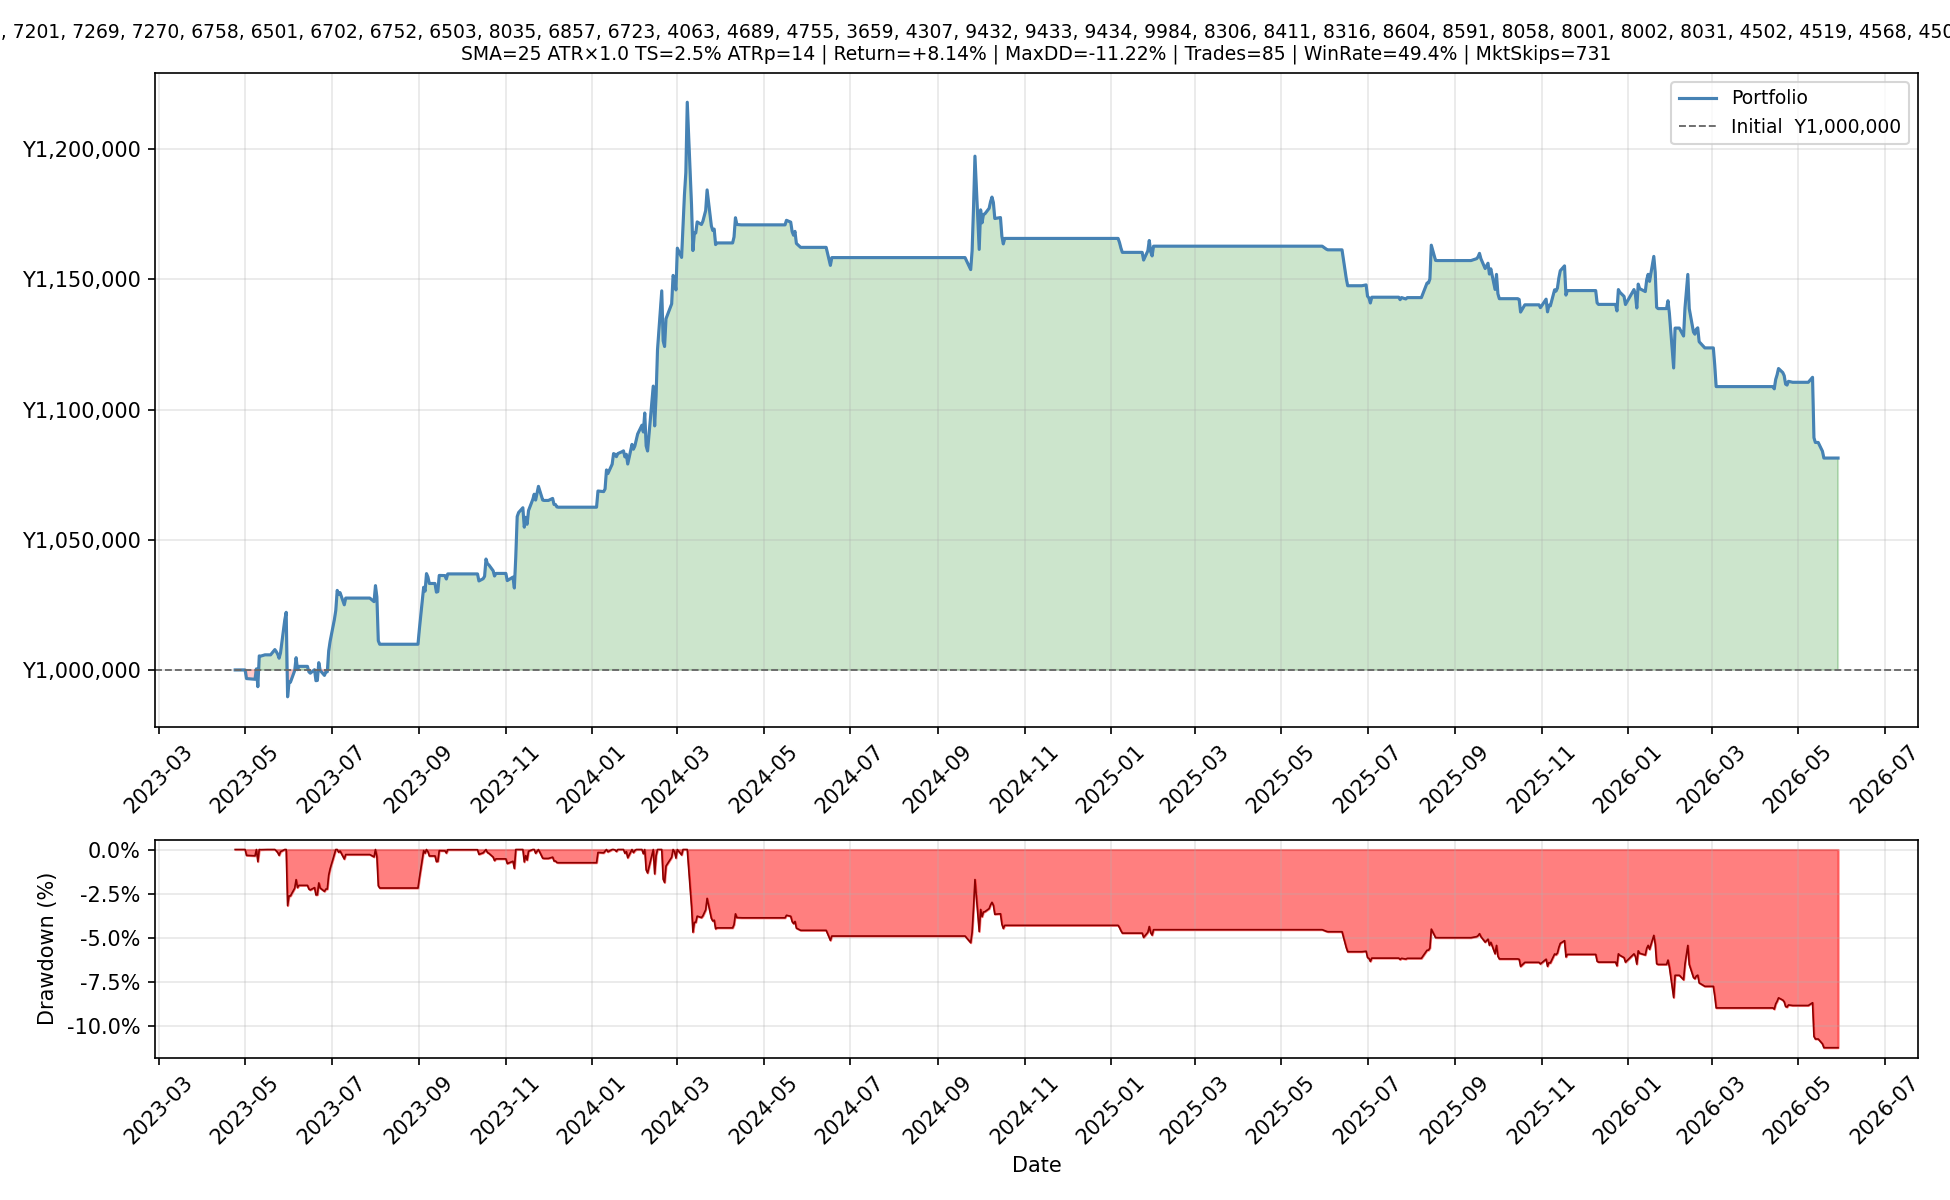
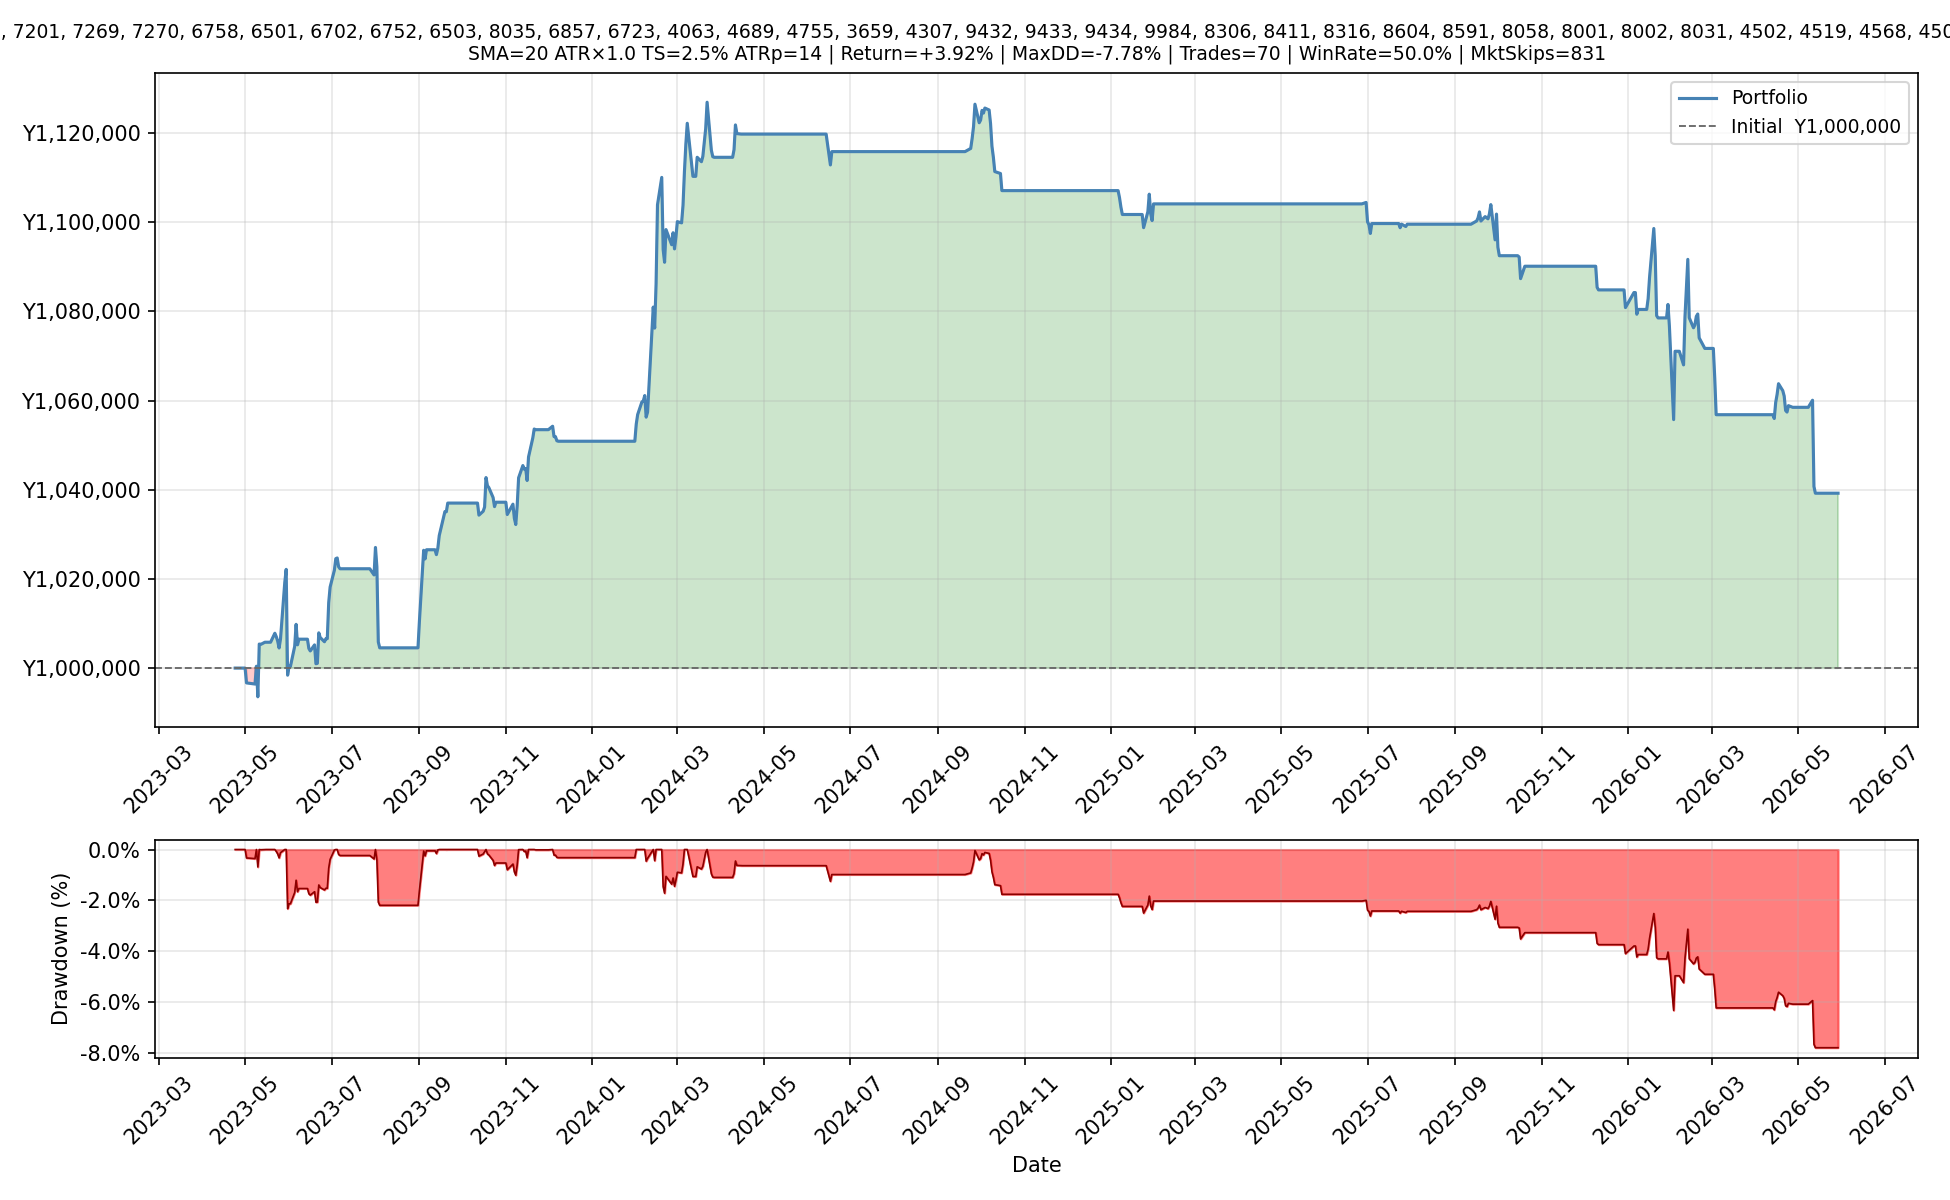
feat: 利益最大化4フィルターを追加（RS・部分利確・タイムストップ・決算スキップ）
- 相対強度フィルター(RS_LOOKBACK=42): N225対比アンダーパフォーム銘柄をエントリー除外
- 部分利確(PARTIAL_PROFIT_R=2.0): ATR×2達成で50%を確定、残りをトレーリングで利益追求
- タイムストップ(TIME_STOP_DAYS=20): 20営業日保有で含み益1%未満なら機会損失を解消
- 決算スキップ: yfinance calendarで決算±3~5日のエントリーを回避
- バックテスト: partial_profit 14件/勝率100%、全体 +3.92% PF=1.23

diff --git a/j_titan_engine.py b/j_titan_engine.py
@@ -49,6 +49,12 @@ RSI_OVERBOUGHT         = 70.0   # この水準から反転下落したら early_
 EARLY_EXIT_PROFIT_CAP  = 0.03   # 含み益がこれ未満の初期フェーズのみ early_exit 有効
 EARLY_EXIT_DAYS_CAP    = 10     # 保有営業日数がこれ以内の初期フェーズのみ early_exit 有効
 
+# ── 稼ぐための4フィルター ─────────────────────────────────────────────────────
+RS_LOOKBACK       = 42    # 相対強度: 約2ヶ月（42営業日）で銘柄 vs N225 を比較
+PARTIAL_PROFIT_R  = 2.0   # 部分利確: ATR×この倍数で50%を利確しトレーリング継続
+TIME_STOP_DAYS    = 20    # タイムストップ: 保有上限（営業日）
+TIME_STOP_MIN_PNL = 0.01  # タイムストップ: 含み益1%未満のまま20日経過で撤退
+
 SMA_PERIODS    = [20, 25, 30]
 ATR_STOP_MULTS = [1.0, 1.5, 2.0]          # 初期損切り幅 = ATR × 倍率
 ATR_BE_TRIGGER = 1.0                        # 利益が ATR×1.0 に達したら損切りを建値へ
@@ -321,12 +327,13 @@ def build_market_filter_arr(n225_close: pd.Series, idx: pd.DatetimeIndex) -> np.
 # Portfolio Backtest Engine (バックテスト本体)
 # ══════════════════════════════════════════════════════════════════════════════
 def portfolio_backtest(
-    ind_all:      dict,
+    ind_all:       dict,
     atr_stop_mult: float,
-    trailing_pct: float,
-    mkt_above:    np.ndarray,
-    common_idx:   pd.DatetimeIndex,
-    track_skips:  bool = False,
+    trailing_pct:  float,
+    mkt_above:     np.ndarray,
+    common_idx:    pd.DatetimeIndex,
+    n225_arr:      np.ndarray = None,   # 相対強度フィルター用 N225 終値配列
+    track_skips:   bool = False,
 ) -> dict:
     syms = [s for s in SYMBOLS if s in ind_all]
     n    = len(common_idx)
@@ -350,9 +357,12 @@ def portfolio_backtest(
     VR = {s: ind_all[s]["vol_ratio"].values.astype(float) for s in syms}
     EX = {s: ind_all[s]["rsi_exit"].values.astype(bool)   for s in syms}
 
+    N225 = n225_arr if n225_arr is not None else np.full(n, np.nan)
+
     cash      = float(INITIAL_CAPITAL)
     positions = {}   # sym → {entry_price, shares, peak_close, entry_date}
     p_sells   = {}   # sym → (reason, deferred_count)
+    p_partial = {}   # sym → (reason, deferred_count)  部分利確
     p_buys    = {}   # sym → deferred_count
     asset_arr = np.empty(n)
     trades, skips = [], []
@@ -379,6 +389,34 @@ def portfolio_backtest(
                         profit=xproc - ep * sh * (1 + COMMISSION),
                     ))
                 del p_sells[sym]
+
+        # ── Execute partial profit sells at today's open ─────────────────
+        for sym in list(p_partial.keys()):
+            o, pc = O[sym][i], C[sym][prev]
+            reason, dfr = p_partial[sym]
+            if o <= pc - tse_limit(pc) and dfr < 3:
+                p_partial[sym] = (reason, dfr + 1)
+            else:
+                if sym in positions:
+                    pos    = positions[sym]
+                    sh_all = pos["shares"]
+                    sh_half = (sh_all // 2 // LOT) * LOT   # 50%・単元株に切り捨て
+                    ep_pos  = pos["entry_price"]
+                    if sh_half >= LOT:
+                        xproc  = o * sh_half * (1 - COMMISSION)
+                        cash  += xproc
+                        pos["shares"]        -= sh_half
+                        pos["partial_taken"]  = True
+                        pos["stop_price"]     = max(pos["stop_price"], ep_pos)
+                        trades.append(dict(
+                            symbol=sym, shares=sh_half, reason="partial_profit",
+                            entry_date=pos["entry_date"], entry_price=ep_pos,
+                            exit_date=common_idx[i], exit_price=o,
+                            profit=xproc - ep_pos * sh_half * (1 + COMMISSION),
+                        ))
+                    else:
+                        p_sells[sym] = (reason, 0)   # 単元未満なら全決済
+                del p_partial[sym]
 
         # ── Execute pending buys at today's open ──────────────────────────
         for sym in list(p_buys.keys()):
@@ -432,17 +470,24 @@ def portfolio_backtest(
                     pos["be_moved"]   = True
                     sp = ep
 
-                if sym not in p_sells:
-                    if c <= sp:
+                if sym not in p_sells and sym not in p_partial:
+                    days_held = i - pos.get("entry_idx", i)
+                    unr_pct   = (c - ep) / ep if ep > 0 else 0.0
+                    # 部分利確: ATR×PARTIAL_PROFIT_R に達したら50%売り
+                    if (not pos.get("partial_taken") and atr_e > 0
+                            and c >= ep + atr_e * PARTIAL_PROFIT_R):
+                        p_partial[sym] = ("partial_profit", 0)
+                    elif c <= sp:
                         p_sells[sym] = ("stop_loss", 0)
                     elif EX[sym][i]:
                         # ハイブリッド: 含み益<3% OR 保有≤10日 の初期フェーズのみ early_exit
-                        days_held  = i - pos.get("entry_idx", i)
-                        unr_pct    = (c - ep) / ep if ep > 0 else 0.0
                         early_phase = (unr_pct < EARLY_EXIT_PROFIT_CAP or
                                        days_held <= EARLY_EXIT_DAYS_CAP)
                         if early_phase:
                             p_sells[sym] = ("early_exit", 0)
+                    elif days_held >= TIME_STOP_DAYS and unr_pct < TIME_STOP_MIN_PNL:
+                        # タイムストップ: 20日経過で含み益1%未満なら機会損失を切る
+                        p_sells[sym] = ("time_stop", 0)
                     else:
                         ts_line = peak * (1 - trailing_pct)
                         if c <= ts_line:
@@ -457,7 +502,15 @@ def portfolio_backtest(
                     rsi_ok = not np.isnan(rsi_v) and rsi_v >= RSI_THRESHOLD
                     adx_ok = not np.isnan(adx_v) and adx_v >= ADX_THRESHOLD
                     vr_ok  = not np.isnan(vr_v)  and vr_v  >= VOLUME_RATIO_MIN
-                    if mkt_ok and rsi_ok and adx_ok and vr_ok:
+                    # 相対強度: 過去RS_LOOKBACK日で銘柄リターン ≥ N225リターン
+                    rs_idx = max(0, i - RS_LOOKBACK)
+                    if (i >= RS_LOOKBACK and C[sym][rs_idx] > 0
+                            and not np.isnan(N225[i]) and not np.isnan(N225[rs_idx])
+                            and N225[rs_idx] > 0):
+                        rs_ok = (C[sym][i] / C[sym][rs_idx]) / (N225[i] / N225[rs_idx]) >= 1.0
+                    else:
+                        rs_ok = True   # データ不足時はスキップ
+                    if mkt_ok and rsi_ok and adx_ok and vr_ok and rs_ok:
                         p_buys[sym] = 0
                     elif track_skips:
                         if not mkt_ok:
@@ -536,6 +589,10 @@ def run_backtest(df_all: dict, n225_close: pd.Series,
     mkt_train = build_market_filter_arr(n225_close, train_idx)
     mkt_test  = build_market_filter_arr(n225_close, test_idx)
 
+    # 相対強度フィルター用 N225 配列（各期間のインデックスに揃える）
+    n225_train_arr = n225_close.reindex(train_idx).ffill().bfill().fillna(0).values.astype(float)
+    n225_test_arr  = n225_close.reindex(test_idx).ffill().bfill().fillna(0).values.astype(float)
+
     # Pre-compute indicators for all (SMA, ATR_PERIOD) combinations
     print("\n  インジケータ計算中 ...")
     all_ind = {
@@ -565,7 +622,8 @@ def run_backtest(df_all: dict, n225_close: pd.Series,
     for sma, atr_m, ts, atr_p in product(SMA_PERIODS, ATR_STOP_MULTS,
                                           TRAILING_RATES, ATR_PERIODS):
         ind_t = {s: all_ind[(sma, atr_p)][s]["train"] for s in active}
-        r     = portfolio_backtest(ind_t, atr_m, ts, mkt_train, train_idx)
+        r     = portfolio_backtest(ind_t, atr_m, ts, mkt_train, train_idx,
+                                   n225_arr=n225_train_arr)
         is_b  = r["final_asset"] > best_asset
         if is_b:
             best_asset  = r["final_asset"]
@@ -586,7 +644,7 @@ def run_backtest(df_all: dict, n225_close: pd.Series,
     # Test on out-of-sample data
     ind_te = {s: all_ind[(best_sma, best_atr_p)][s]["test"] for s in active}
     result  = portfolio_backtest(ind_te, best_atr_m, best_ts, mkt_test, test_idx,
-                                 track_skips=True)
+                                 n225_arr=n225_test_arr, track_skips=True)
 
     pf_str = f"{result['profit_factor']:.2f}" if result["profit_factor"] != float("inf") else "∞"
     skips  = result["skips"]
@@ -762,6 +820,49 @@ def run_auto(df_all: dict, n225_close: pd.Series) -> None:
                                     f"@ ¥{o:,.0f}  P&L ¥{profit:+,.0f}  "
                                     f"({order.get('reason','signal')})")
 
+        elif action == "partial_sell":
+            if o <= pc - lim and dfr < 3:        # ストップ安: 持越し
+                order["deferred"] = dfr + 1
+                new_pending[sym]  = order
+                exec_log.append(f"  [{sym}] PARTIAL SELL 持越し (ストップ安, {dfr+1}回目)")
+            else:
+                if sym in positions:
+                    pos     = positions[sym]
+                    sh_all  = int(pos["shares"])
+                    sh_half = (sh_all // 2 // LOT) * LOT
+                    ep_pos  = float(pos["entry_price"])
+                    if sh_half >= LOT:
+                        xproc  = o * sh_half * (1 - COMMISSION)
+                        profit = xproc - ep_pos * sh_half * (1 + COMMISSION)
+                        cash  += xproc
+                        total_pnl += profit
+                        pos["shares"]        = sh_all - sh_half
+                        pos["partial_taken"] = True
+                        pos["stop_price"]    = max(float(pos["stop_price"]), ep_pos)
+                        r_trades.append({
+                            "date": str(today.date()), "symbol": sym,
+                            "shares": sh_half, "action": "partial_sell",
+                            "price": round(o, 1), "profit": round(profit, 0),
+                            "reason": "partial_profit",
+                        })
+                        exec_log.append(f"  [{sym}] {NAMES.get(sym,sym)} PARTIAL SELL {sh_half}株 "
+                                        f"@ ¥{o:,.0f}  P&L ¥{profit:+,.0f}  (部分利確)")
+                    else:
+                        # 単元未満なら全決済
+                        xproc  = o * sh_all * (1 - COMMISSION)
+                        profit = xproc - ep_pos * sh_all * (1 + COMMISSION)
+                        cash  += xproc
+                        total_pnl += profit
+                        positions.pop(sym)
+                        r_trades.append({
+                            "date": str(today.date()), "symbol": sym,
+                            "shares": sh_all, "action": "sell",
+                            "price": round(o, 1), "profit": round(profit, 0),
+                            "reason": "partial_profit",
+                        })
+                        exec_log.append(f"  [{sym}] {NAMES.get(sym,sym)} SELL (全株) {sh_all}株 "
+                                        f"@ ¥{o:,.0f}  P&L ¥{profit:+,.0f}")
+
         elif action == "buy":
             if o >= pc + lim and dfr < 2:        # ストップ高: 持越し
                 order["deferred"] = dfr + 1
@@ -834,7 +935,7 @@ def run_auto(df_all: dict, n225_close: pd.Series) -> None:
             ep   = float(pos["entry_price"])
             peak = max(float(pos.get("peak_close", ep)), c)
             pos["peak_close"] = peak
-            sp   = float(pos.get("stop_price", ep * 0.97))
+            sp    = float(pos.get("stop_price", ep * 0.97))
             atr_e = float(pos.get("atr_entry", 0.0))
 
             # 建値移動: 利益がATR×1.0を超えたら損切りラインを建値に
@@ -843,28 +944,45 @@ def run_auto(df_all: dict, n225_close: pd.Series) -> None:
                 pos["be_moved"]   = True
                 sp = ep
 
+            # 保有日数・含み益計算（タイムストップ・部分利確共用）
+            try:
+                ref_idx_s  = ind_all[sym].index
+                entry_dt   = pd.Timestamp(pos["entry_date"])
+                if entry_dt.tzinfo is None:
+                    entry_dt = entry_dt.tz_localize(TOKYO_TZ)
+                entry_pos_i = ref_idx_s.get_loc(entry_dt) if entry_dt in ref_idx_s else 0
+                today_pos_i = ref_idx_s.get_loc(today) if today in ref_idx_s else len(ref_idx_s)-1
+                days_held   = today_pos_i - entry_pos_i
+            except Exception:
+                days_held = 0
+            unr_pct = (c - ep) / ep if ep > 0 else 0.0
+
             if sym not in new_pending:
-                if c <= sp:
+                # 部分利確: ATR×PARTIAL_PROFIT_R 達成で50%売り
+                if (not pos.get("partial_taken") and atr_e > 0
+                        and c >= ep + atr_e * PARTIAL_PROFIT_R):
+                    new_pending[sym] = {"action": "partial_sell",
+                                        "reason": "partial_profit", "deferred": 0}
+                    signal_log.append(
+                        f"  [{sym}] {NAMES.get(sym,sym)} → 明日PARTIAL SELL "
+                        f"(部分利確 ATR×{PARTIAL_PROFIT_R:.1f} 含み益{unr_pct*100:.1f}%)")
+                elif c <= sp:
                     new_pending[sym] = {"action": "sell", "reason": "stop_loss", "deferred": 0}
                     signal_log.append(f"  [{sym}] {NAMES.get(sym,sym)} → 明日SELL (ATR損切 ¥{sp:,.0f})")
                 elif c <= peak * (1 - ts_pct):
                     new_pending[sym] = {"action": "sell", "reason": "trailing_stop", "deferred": 0}
                     signal_log.append(f"  [{sym}] {NAMES.get(sym,sym)} → 明日SELL (トレーリング利確)")
+                elif days_held >= TIME_STOP_DAYS and unr_pct < TIME_STOP_MIN_PNL:
+                    # タイムストップ: 20日保有で含み益1%未満
+                    new_pending[sym] = {"action": "sell", "reason": "time_stop", "deferred": 0}
+                    signal_log.append(
+                        f"  [{sym}] {NAMES.get(sym,sym)} → 明日SELL "
+                        f"(タイムストップ {days_held}日 含み益{unr_pct*100:.1f}%)")
                 else:
                     try:
                         row = ind_all[sym].loc[today]
                         if bool(row.get("rsi_exit", False)):
                             # ハイブリッド: 含み益<3% OR 保有≤10営業日 の初期フェーズのみ
-                            ep_f  = float(pos["entry_price"])
-                            unr_pct = (c - ep_f) / ep_f if ep_f > 0 else 0.0
-                            try:
-                                entry_dt = pd.Timestamp(pos["entry_date"]).tz_localize(TOKYO_TZ)
-                                ref_idx_s = ind_all[sym].index
-                                entry_pos = ref_idx_s.get_loc(entry_dt) if entry_dt in ref_idx_s else 0
-                                today_pos = ref_idx_s.get_loc(today) if today in ref_idx_s else len(ref_idx_s) - 1
-                                days_held = today_pos - entry_pos
-                            except Exception:
-                                days_held = 0
                             early_phase = (unr_pct < EARLY_EXIT_PROFIT_CAP or
                                            days_held <= EARLY_EXIT_DAYS_CAP)
                             if early_phase:
@@ -889,24 +1007,60 @@ def run_auto(df_all: dict, n225_close: pd.Series) -> None:
                 row   = ind_all[sym].loc[today]
                 rsi_v = float(row.get("rsi", float("nan")))
                 adx_v = float(row.get("adx", float("nan")))
+                vr_v  = float(row.get("vol_ratio", float("nan")))
                 rsi_ok = not np.isnan(rsi_v) and rsi_v >= RSI_THRESHOLD
                 adx_ok = not np.isnan(adx_v) and adx_v >= ADX_THRESHOLD
+                vr_ok  = not np.isnan(vr_v)  and vr_v  >= VOLUME_RATIO_MIN
                 if (not pd.isna(row["sma"]) and
                         bool(row["above_sma"]) and bool(row["golden_cross"])):
-                    if n225_ok and rsi_ok and adx_ok:
+                    # 相対強度フィルター
+                    rs_ok = True
+                    try:
+                        sym_idx  = ind_all[sym].index
+                        p_now    = sym_idx.get_loc(today)
+                        p_ago    = max(0, p_now - RS_LOOKBACK)
+                        c_now_rs = float(ind_all[sym].iloc[p_now]["close"])
+                        c_ago_rs = float(ind_all[sym].iloc[p_ago]["close"])
+                        n_now_rs = float(n225_close.asof(today))
+                        n_ago_rs = float(n225_close.iloc[max(0, n225_close.index.get_loc(
+                            n225_close.index.asof(today)) - RS_LOOKBACK)])
+                        if c_ago_rs > 0 and n_ago_rs > 0:
+                            rs_ok = (c_now_rs / c_ago_rs) / (n_now_rs / n_ago_rs) >= 1.0
+                    except Exception:
+                        rs_ok = True
+                    # 決算スキップフィルター（yfinance calendar）
+                    earnings_ok = True
+                    try:
+                        cal = yf.Ticker(f"{sym}.T").calendar
+                        if isinstance(cal, dict) and "Earnings Date" in cal:
+                            earn_dates = cal["Earnings Date"]
+                            if earn_dates:
+                                earn_dt   = pd.Timestamp(earn_dates[0]).date()
+                                days_diff = (earn_dt - today.date()).days
+                                if -3 <= days_diff <= 5:
+                                    earnings_ok = False
+                                    signal_log.append(
+                                        f"  [{sym}] {NAMES.get(sym,sym)} "
+                                        f"【決算スキップ】{earn_dt}（あと{days_diff}日）")
+                    except Exception:
+                        pass
+                    if n225_ok and rsi_ok and adx_ok and vr_ok and rs_ok and earnings_ok:
                         new_pending[sym] = {"action": "buy", "deferred": 0}
                         signal_log.append(
                             f"  [{sym}] {NAMES.get(sym,sym)} → 明日BUY "
-                            f"(GC+SMA上+地合いOK RSI={rsi_v:.1f} ADX={adx_v:.1f})")
+                            f"(GC+SMA上+RS OK RSI={rsi_v:.1f} ADX={adx_v:.1f})")
                     elif not n225_ok:
                         signal_log.append(
                             f"  [{sym}] {NAMES.get(sym,sym)} "
-                            f"【スキップ】市場地合い悪化のため購入を見送りました")
-                    else:
+                            f"【スキップ】市場地合い悪化")
+                    elif not rs_ok:
                         signal_log.append(
                             f"  [{sym}] {NAMES.get(sym,sym)} "
-                            f"【スキップ】RSI/ADX強度不足 "
-                            f"(RSI={rsi_v:.1f}, ADX={adx_v:.1f})")
+                            f"【スキップ】相対強度不足（N225 アンダーパフォーム）")
+                    elif earnings_ok:
+                        signal_log.append(
+                            f"  [{sym}] {NAMES.get(sym,sym)} "
+                            f"【スキップ】RSI/ADX/VR強度不足")
             except KeyError:
                 pass
 